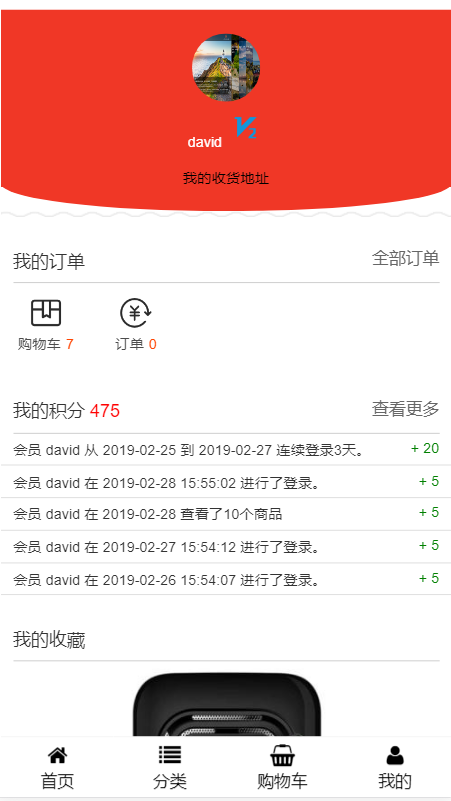
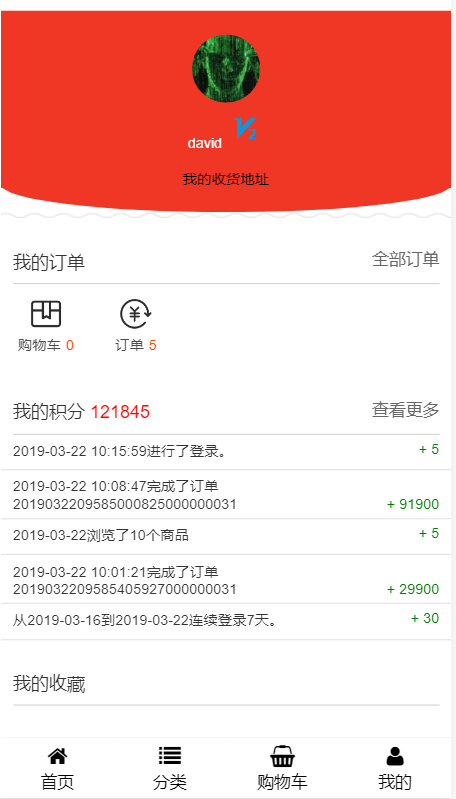
后台积分规则完成

diff --git a/app/Admin/Controllers/ScoreRuleController.php b/app/Admin/Controllers/ScoreRuleController.php
@@ -25,7 +25,7 @@ class ScoreRuleController extends Controller
     {
         return $content
             ->header('列表')
-            ->description('两个 % 包围起来的是变量模板')
+            ->description(':xxx 是变量模板,建议不要操作')
             ->body($this->grid());
     }
 
@@ -86,13 +86,24 @@ class ScoreRuleController extends Controller
 
         $grid->column('id', 'id');
         $grid->column('description', '描述');
+        $grid->column('replace_text', '替换文本');
         $grid->column('score', '积分');
-        $grid->column('times', '次数');
-        $grid->column('can_delete', '删除')->display(function ($is) {
-            return $is ? '是' : '否';
+        $grid->column('times', '次数')->display(function ($times) {
+
+            return $times ? $times : '';
         });
+
         $grid->column('created_at', '创建时间');
         $grid->column('updated_at', '修改时间');
+
+        $grid->actions(function (Grid\Displayers\Actions $actions) {
+
+            $rule = $actions->row;
+            if (! $rule->can_delete) {
+                $actions->disableDelete();
+            }
+
+        });
 
         return $grid;
     }
@@ -109,8 +120,12 @@ class ScoreRuleController extends Controller
 
         $show->field('id', 'id');
         $show->field('description', '描述');
+        $show->field('replace_text', '替换文本');
         $show->field('score', '积分');
-        $show->field('times', '次数');
+        $show->field('times', '次数')->as(function ($times) {
+
+            return $times ? $times : '';
+        });
         $show->field('created_at', '创建时间');
         $show->field('updated_at', '修改时间');
 
@@ -141,6 +156,7 @@ class ScoreRuleController extends Controller
 
             // 只有当时连续登录和修改的才有次数
             $scoreRule = ScoreRule::query()->findOrFail($id);
+            $form->textarea('replace_text', '替换文本');
             $form->textarea('description', '描述');
 
             if (array_key_exists($scoreRule->index_code, $options)) {
@@ -166,6 +182,7 @@ class ScoreRuleController extends Controller
                                  ->firstOrFail();
 
                 $form->model()->description = $rule->description;
+                $form->model()->replace_text = $rule->replace_text;
             }
 
         });
@@ -187,9 +204,9 @@ class ScoreRuleController extends Controller
         if (! $rule->can_delete) {
 
             return response()->json([
-                                        'status'  => false,
-                                        'message' => '这个等级不允许删除',
-                                    ]);
+                'status'  => false,
+                'message' => '这个等级不允许删除',
+            ]);
         }
 
         if ($rule->delete()) {

diff --git a/database/seeds/ScoreTablesSeeder.php b/database/seeds/ScoreTablesSeeder.php
@@ -38,6 +38,7 @@ class ScoreTablesSeeder extends Seeder
         $values = [
             [
                 'replace_text' => ':time成为注册会员。',
+                'description' => '注册赠送积分',
                 'index_code' => ScoreRule::INDEX_REGISTER,
                 'score' => 20,
                 'times' => 0,
@@ -45,6 +46,7 @@ class ScoreTablesSeeder extends Seeder
             ],
             [
                 'replace_text' => ':time进行了登录。',
+                'description' => '每日登录赠送积分',
                 'index_code' => ScoreRule::INDEX_LOGIN,
                 'score' => 5,
                 'times' => 0,
@@ -52,6 +54,7 @@ class ScoreTablesSeeder extends Seeder
             ],
             [
                 'replace_text' => '从:start_date到:end_date连续登录:days天。',
+                'description' => '连续登录赠送积分',
                 'index_code' => ScoreRule::INDEX_CONTINUE_LOGIN,
                 'score' => 20,
                 'times' => 3,
@@ -59,6 +62,7 @@ class ScoreTablesSeeder extends Seeder
             ],
             [
                 'replace_text' => '从:start_date到:end_date连续登录:days天。',
+                'description' => '连续登录赠送积分',
                 'index_code' => ScoreRule::INDEX_CONTINUE_LOGIN,
                 'score' => 50,
                 'times' => 7,
@@ -66,6 +70,7 @@ class ScoreTablesSeeder extends Seeder
             ],
             [
                 'replace_text' => ':date浏览了:number个商品',
+                'description' => '浏览商品赠送积分',
                 'index_code' => ScoreRule::INDEX_REVIEW_PRODUCT,
                 'score' => 5,
                 'times' => 10,

diff --git a/readme.md b/readme.md
@@ -23,6 +23,7 @@
     * [x] 连续登录 n 天得到积分
     * [x] 当天浏览商品数量 n 个得到积分
     * [x] 后台可新增 n+ 积分种类
+    * [x] 完成订单可获得金钱等比例积分
 - [x] 秒杀功能
     * 秒杀过期，自动回退库存
     * 使用延时队列，当订单超过三十分钟(可配置)未付款，自动取消订单
